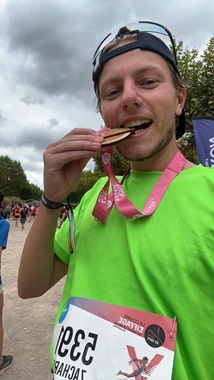
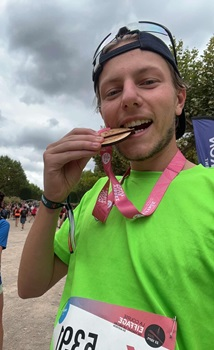
oee

diff --git a/style.css b/style.css
@@ -152,7 +152,7 @@ footer{
 }
 
 .p_zach{
-    width: 350px;
+    width: 214px;
     height: 350px;
 }
 

diff --git a/a_propos_de_nous.php b/a_propos_de_nous.php
@@ -49,7 +49,7 @@ session_start();
         <div class="row align-items-center">
             <div class="col-4">
                 <img 
-                    src="photo_quelconque.png" alt="Photos Zacharie" class="p_zach col img-fluid" />
+                    src="zach.jpg" alt="Photos Zacharie" class="p_zach col img-fluid" />
             </div>
             <div class="col-4 texte_apdn"> 
                 Lorem ipsum dolor sit amet consectetur adipisicing elit. Debitis molestiae doloribus iste eligendi
@@ -57,7 +57,7 @@ session_start();
                 perspiciatis.
             </div>
             <div class="col-4 citation_apdn">
-                CITATION
+                C’est plus facile de descendre une colline que de la monter, mais la vue est beaucoup mieux au sommet. 
             </div>
         </div>
     </div>
